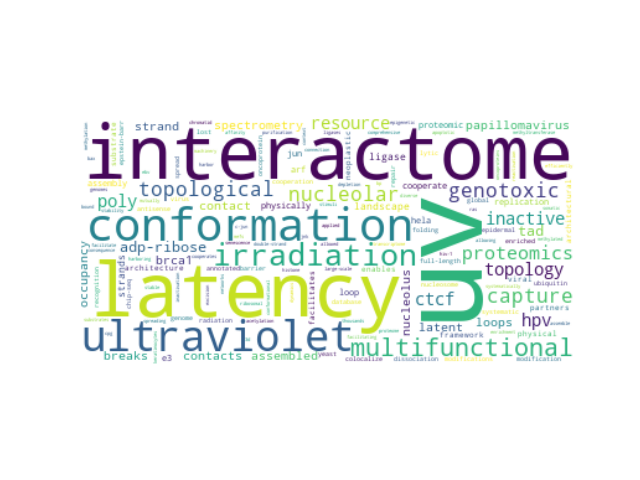
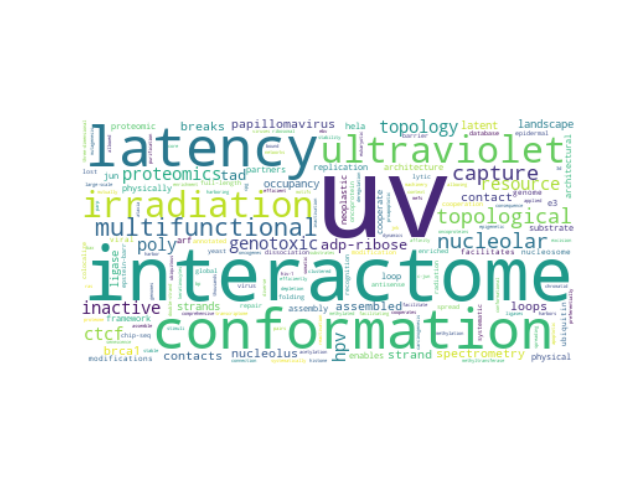
added fig

Changed region(s): [[0.125, 0.25, 0.9062, 0.7812]]

diff --git a/utils/words2cloud.py b/utils/words2cloud.py
@@ -83,7 +83,7 @@ def __get_word_cloud(words, weights, output_file):
     for word, weight in zip(words, weights):
         frequencies.setdefault(word, 0.)
         frequencies[word] += weight
-    wc = WordCloud(background_color="white")
+    wc = WordCloud(background_color="white", relative_scaling=0)
     wc.generate_from_frequencies(frequencies)
     plt.imshow(wc, interpolation="bilinear")
     plt.axis("off")
